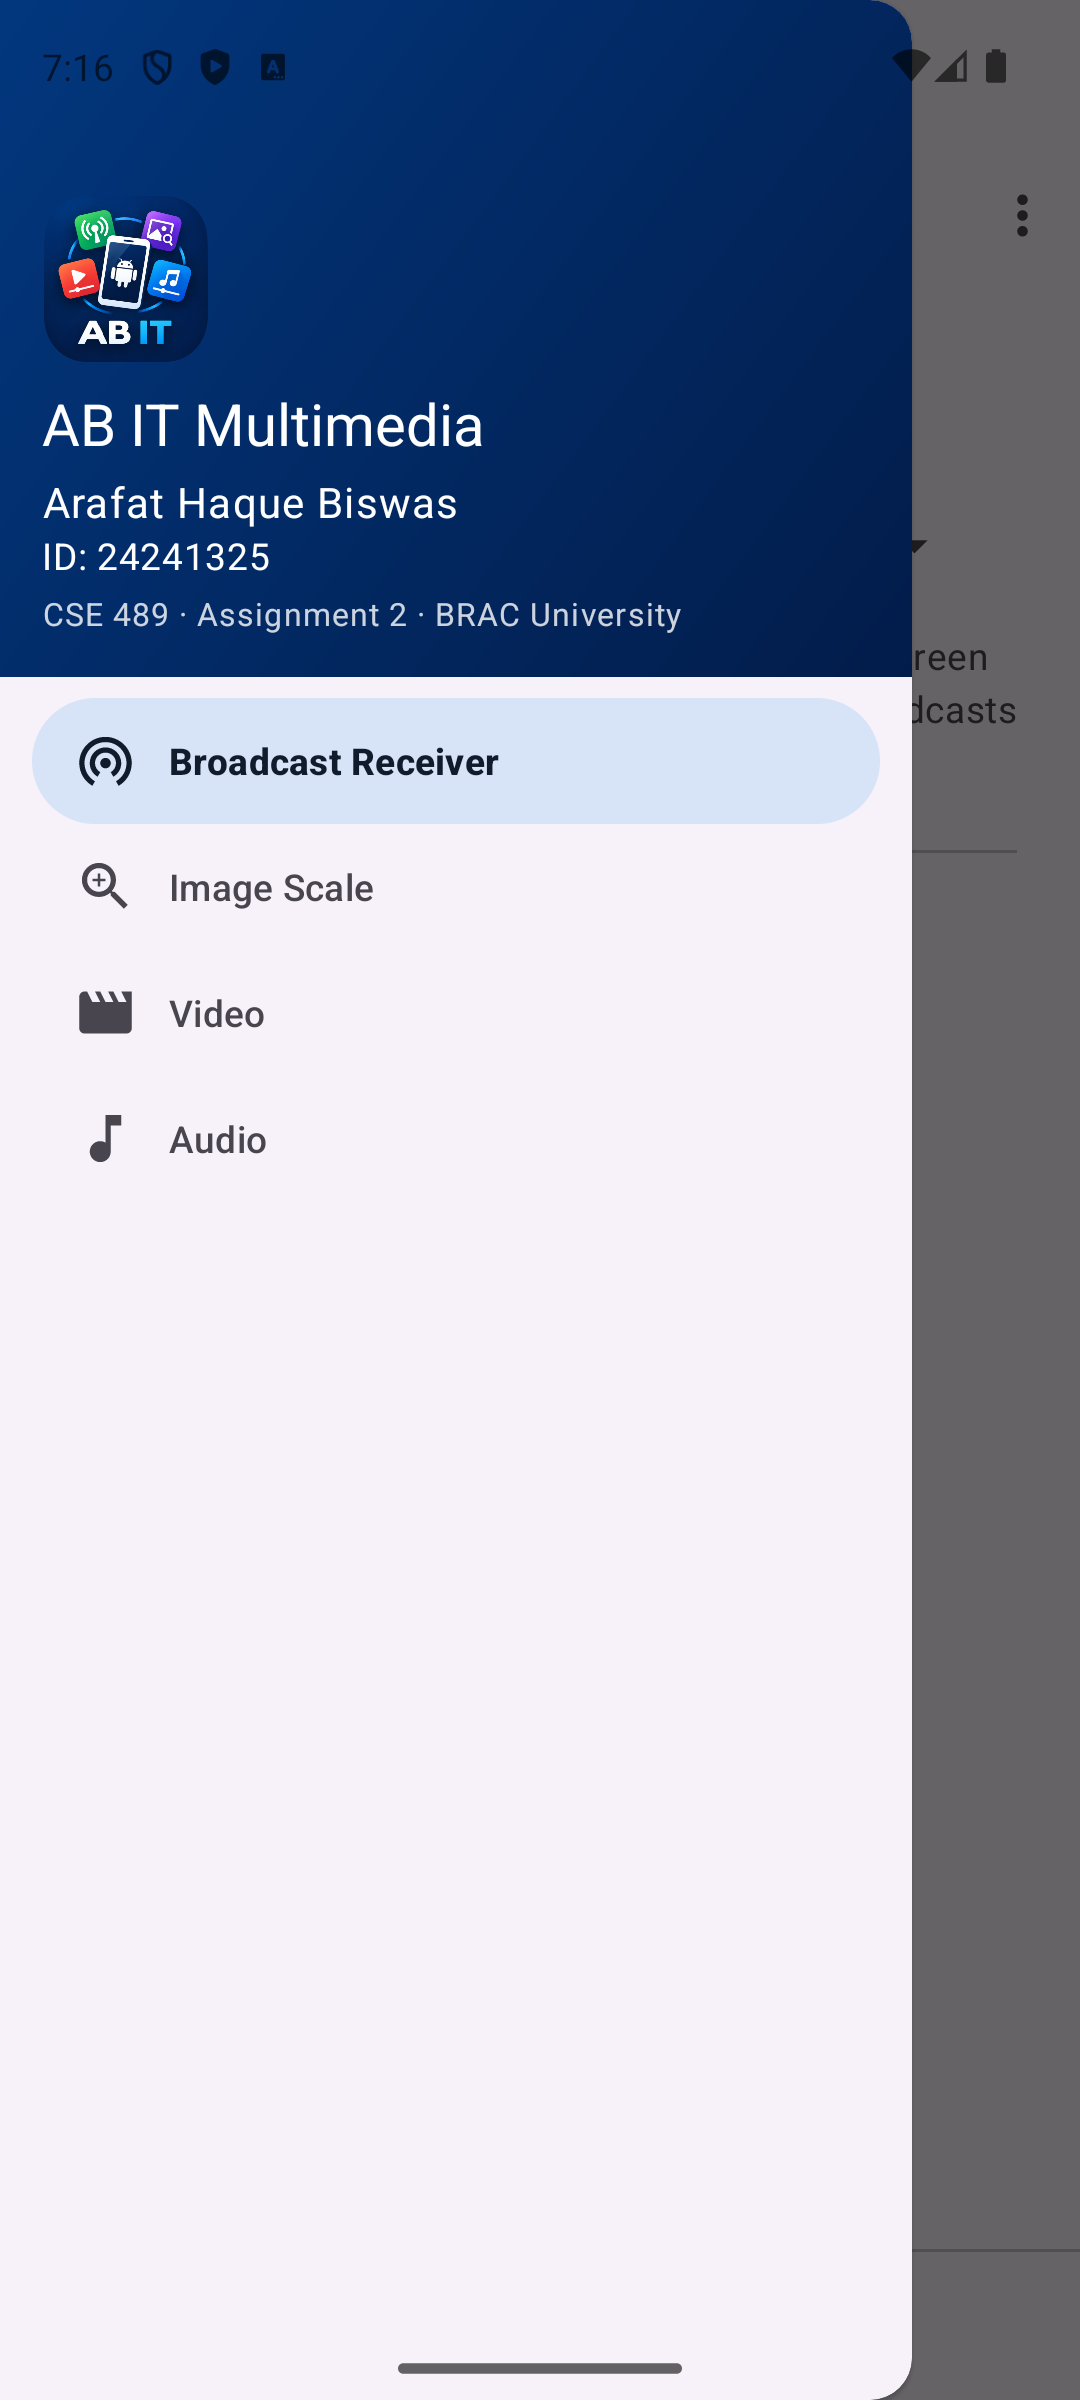
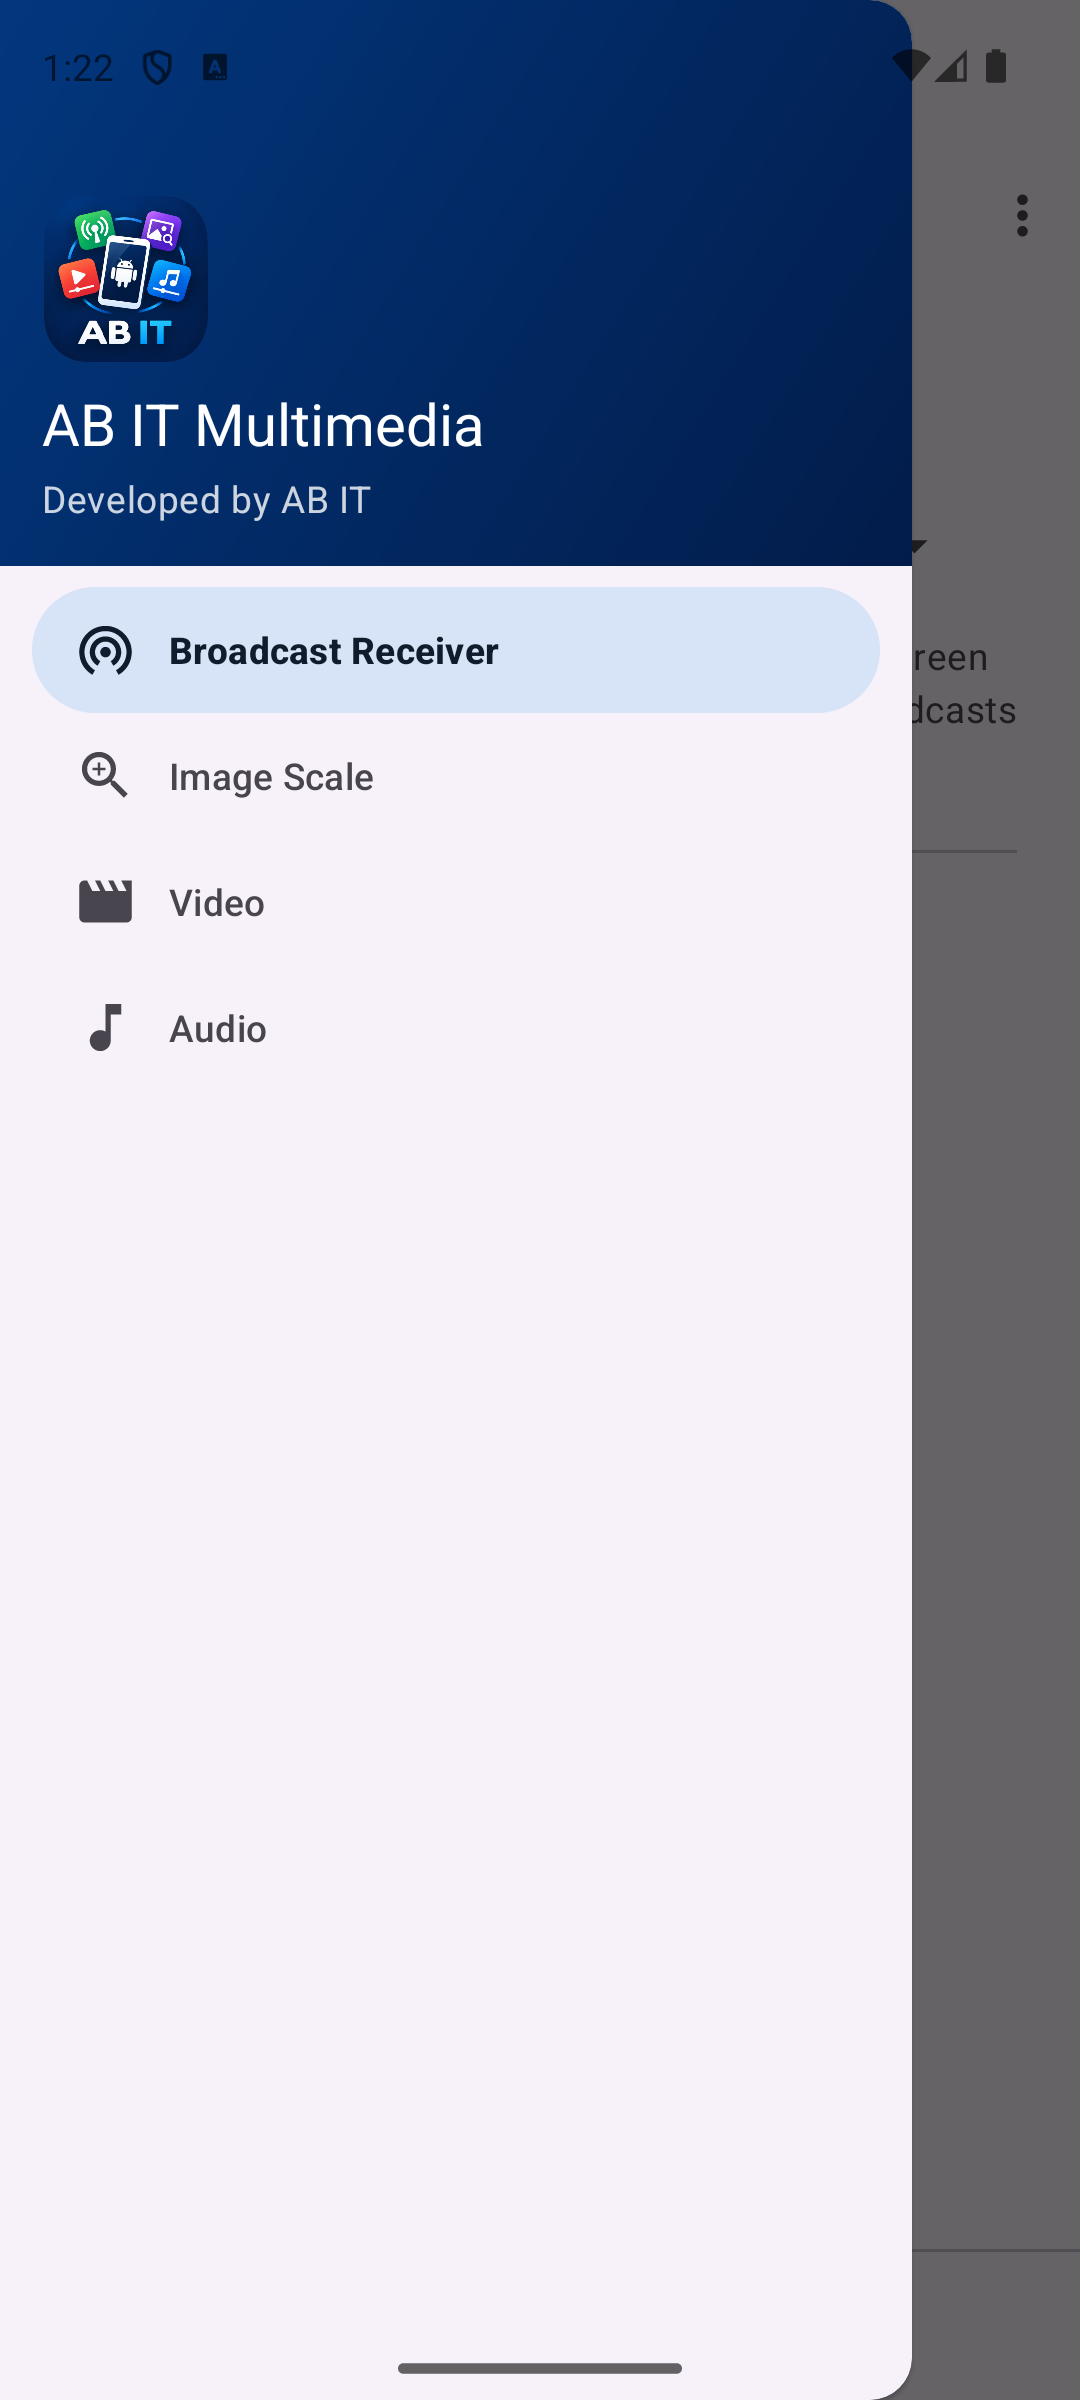
add

diff --git a/docs/play-store/PLAY_CONSOLE_CHECKLIST.md b/docs/play-store/PLAY_CONSOLE_CHECKLIST.md
@@ -1,0 +1,116 @@
+# Google Play Console checklist — AB IT Multimedia
+
+What is already prepared in this project, and what you still have to do yourself in Play Console.
+Requirements were checked against the official Google Play / Android Developers pages on
+26 October 2026 (sources at the end). **Nothing has been uploaded or published.**
+
+## 1. Technical requirements (verified in this project)
+
+| Requirement | Official rule | This app | Status |
+|---|---|---|---|
+| Target API level | New apps and updates must target Android 16 (API 36) or higher from 31 Aug 2026 | `targetSdk 37` | ✅ |
+| Minimum Android version | Your choice | `minSdk 24` (Android 7.0) | ✅ |
+| Publishing format | Android App Bundle (AAB) with Play App Signing | `app/build/outputs/bundle/release/app-release.aab`, signed with the upload key | ✅ |
+| 16 KB memory page size | Required for apps targeting API 35+ (updates blocked from 1 Feb 2027); Kotlin/Java-only apps already comply | no native `.so` libraries in the AAB | ✅ |
+| Permissions | Only what is needed | `INTERNET` only (+ AndroidX's own signature-level permission) | ✅ |
+| Exported components | Must be deliberate | only the launcher Activity, plus AndroidX's `ProfileInstallReceiver` (guarded by the system-only `DUMP` permission) | ✅ |
+| Runtime receivers (Android 14+) | Must declare an export flag | both use `ContextCompat.RECEIVER_NOT_EXPORTED` | ✅ |
+| Release build | Not debuggable, shrunk | R8 enabled, not debuggable, cleartext traffic not allowed | ✅ |
+
+## 2. Before creating the app in Play Console
+
+1. **Developer account.** If you use a *personal* account created after 13 November 2023, you must
+   run a **closed test with at least 12 testers who stay opted in for 14 continuous days** before
+   you can apply for production access (Dashboard → *Apply for production*). Plan for this:
+   collect 12+ Google accounts (classmates, family) willing to install the app and stay opted in.
+   Organisation accounts are not subject to this rule.
+2. **Developer verification.** Google has registered almost all Play apps automatically. Check the
+   Play Console home page for any app registration task; the first enforcement date was
+   30 September 2026 (Brazil, Indonesia, Singapore, Thailand), with a global rollout in 2027.
+3. **Privacy policy URL.** Play requires a public, non-PDF, non-editable URL. Host
+   `docs/privacy-policy.md` — for example with GitHub Pages (repository → Settings → Pages →
+   deploy from the `docs` folder) or Google Sites — and note the URL. The same policy is already
+   shown inside the app (About screen), which Play also requires.
+
+## 3. Create the app and upload
+
+1. *Create app* → name **AB IT Multimedia**, default language, **App** (not game), **Free**.
+2. Enroll in **Play App Signing** (default for new apps). Google keeps the final app signing key;
+   you sign uploads with your **upload key** (see README → *Release signing*).
+3. Upload `app-release.aab` to the **Internal testing** track first, install it from Play on a phone
+   and check every screen.
+4. Then create the **Closed testing** track, add your 12+ testers, and keep it running for 14 days.
+
+## 4. App content declarations (Policy → App content)
+
+Answer from the facts below. These are recommendations based on the code, not legal advice — you
+are responsible for the final answers.
+
+| Declaration | Recommended answer | Evidence |
+|---|---|---|
+| Privacy policy | your hosted URL from step 2.3 | `docs/privacy-policy.md`, About screen |
+| Ads | **No ads** | no ad SDKs in `gradle/libs.versions.toml` |
+| App access | **All functionality is available without special access** | no login or accounts; Image Scale needs internet |
+| Content rating | Fill in the IARC questionnaire truthfully (no violence, sexual content, gambling, user interaction or purchases). The rating is assigned by IARC. | — |
+| Target audience | **13 and over** (or 18+). Do *not* pick under-13 age groups unless you want the Families policy to apply. | app is a technical demo, not designed for children |
+| News app / Government app / Financial features / Health | **No** / **No** / **None** / **None** | — |
+| Data safety | see below | — |
+
+### Data safety (what the code actually does)
+
+- The app has **no** accounts, analytics, crash reporting, advertising or tracking SDKs.
+  Dependencies: AndroidX, Material, Navigation, Lifecycle, Coil + OkHttp (image loading only).
+- User-entered text (the custom broadcast message) and the battery level **never leave the device**.
+- The **only** network request is an HTTPS GET for one photo from `picsum.photos`
+  (`image/ImageScaleFragment.kt`). It contains no identifiers or user data; like any web request it
+  exposes the device's IP address to Lorem Picsum's servers. AB IT never receives it.
+
+**Recommended answer:** “Does your app collect or share any of the required user data types?” →
+**No**. Google defines “collected” as data transmitted off the device by your app; the app transmits
+no user data of its own, and the IP address is only seen by the image server as part of the
+download. If you prefer to be maximally cautious, you can review Google's guidance on IP addresses
+in the Data safety help page before answering. Google requires the form (and a privacy policy) even
+when an app collects nothing.
+
+## 5. Store listing
+
+Use `docs/play-store/STORE_LISTING.md` and the graphics in `docs/play-store/`.
+
+## 6. Branding and content rights
+
+| Item | Licence / rule | Where it is credited |
+|---|---|---|
+| Sintel trailer (video) | CC BY 3.0, © Blender Foundation | About screen, README, store description |
+| “Carefree” by Kevin MacLeod (audio) | CC BY 4.0 | Audio screen, About, README, store description |
+| Photo 1015 (Picsum/Unsplash) | Unsplash licence (free use) | About, README, store description |
+| Android robot in the AB IT logo | Google brand guidelines: may be used/modified **with the attribution line** below | About screen, README, store description |
+| Libraries | Apache 2.0 (AndroidX, Material, Coil, OkHttp) | — |
+
+Android robot attribution (required wherever the robot appears in a creative):
+“The Android robot is reproduced or modified from work created and shared by Google and used
+according to terms described in the Creative Commons 3.0 Attribution License.”
+
+Google's brand guidelines also say marketing creatives that include Android trademarks should be
+submitted to the Android brand team for review, and that “Android” must not be used in an app's
+name (the name “AB IT Multimedia” is fine). The feature graphic in this folder contains the logo, and
+therefore the robot; it carries the attribution line in small print.
+
+## 7. Risks to be aware of
+
+- **Minimum functionality:** Google may reject apps that offer very limited functionality. This is a
+  learning/demo app, so a rejection on those grounds is possible.
+- **Third-party image service:** Image Scale depends on picsum.photos being online.
+- **Closed testing:** production access is impossible without the 12-tester / 14-day closed test on a
+  new personal account.
+
+## Sources
+
+- Target API level requirements — https://developer.android.com/google/play/requirements/target-sdk
+- Target API level policy (Play Console Help) — https://support.google.com/googleplay/android-developer/answer/11926878
+- Testing requirements for new personal accounts — https://support.google.com/googleplay/android-developer/answer/14151465
+- Data safety form — https://support.google.com/googleplay/android-developer/answer/10787469
+- User Data policy (privacy policy rules) — https://support.google.com/googleplay/android-developer/answer/10144311
+- Store listing assets — https://support.google.com/googleplay/android-developer/answer/9866151
+- 16 KB page sizes — https://developer.android.com/guide/practices/page-sizes
+- Android brand guidelines — https://developer.android.com/distribute/marketing-tools/brand-guidelines
+- Android developer verification — https://android-developers.googleblog.com/2026/03/android-developer-verification-rolling-out-to-all-developers.html

diff --git a/docs/play-store/STORE_LISTING.md b/docs/play-store/STORE_LISTING.md
@@ -1,0 +1,58 @@
+# Google Play store listing — draft
+
+Draft text and assets for the Play Console **Main store listing**. Review and edit before use.
+Limits are from Google Play's store listing help page (checked 26 October 2026).
+
+## Text
+
+| Field | Value | Limit |
+|---|---|---|
+| App name | AB IT Multimedia | 30 characters |
+| Short description | Broadcast receivers, pinch-to-zoom photos, video and audio in one demo app. | 80 characters |
+| Full description | see below | 4000 characters |
+
+### Full description
+
+```
+AB IT Multimedia is a small, ad-free demo of core Android features, built by AB IT.
+
+FOUR FEATURES, ONE DRAWER
+• Broadcast Receiver – choose a broadcast type and follow it across three screens:
+  – Custom: type a message and watch it arrive at a receiver through a private broadcast.
+  – Battery: see the live battery level, charging status and update time from Android's
+    system battery broadcast.
+• Image Scale – a high-resolution photo you can pinch to zoom (up to 5x), drag and double-tap.
+• Video – watch a short film trailer with standard playback controls.
+• Audio – play a music track with play/pause, stop and a seek bar.
+
+PRIVATE BY DESIGN
+• No accounts, ads, analytics or tracking.
+• The only permission is internet access, used to download the Image Scale photo.
+• Video and music are built into the app and work offline.
+
+CREDITS
+• Video: "Sintel" trailer © Blender Foundation | durian.blender.org (CC BY 3.0)
+• Music: "Carefree" by Kevin MacLeod (incompetech.com), licensed under Creative Commons:
+  By Attribution 4.0 License
+• Photo: Alexey Topolyanskiy on Unsplash, served by Lorem Picsum
+• The Android robot is reproduced or modified from work created and shared by Google and used
+  according to terms described in the Creative Commons 3.0 Attribution License.
+```
+
+## Graphics in this folder
+
+| Asset | File | Requirement | Status |
+|---|---|---|---|
+| App icon | `icon-512.png` | 512 × 512, 32-bit PNG with alpha, ≤ 1024 KB | generated from the supplied logo |
+| Feature graphic | `feature-graphic.png` | 1024 × 500, JPEG or 24-bit PNG without alpha | generated from the supplied logo |
+| Phone screenshots | `screenshots/*.png` | 2–8 images, 24-bit PNG/JPEG without alpha, sides 320–3840 px, long side ≤ 2 × short side | 8 images, 1101 × 2202 (2:1) |
+
+The phone screenshots are the emulator screenshots with the status bar and gesture bar trimmed,
+because the raw 1080 × 2400 images are longer than 2:1 and would be rejected.
+
+## Suggested settings
+
+- **Category:** Education or Tools — your choice; both fit a feature-demo app.
+- **Contact email:** required by Play Console. Use an address you check; it is also the
+  privacy contact named in the privacy policy.
+- **Website / phone:** optional — leave empty rather than inventing one.

diff --git a/docs/privacy-policy.md b/docs/privacy-policy.md
@@ -1,0 +1,61 @@
+# Privacy Policy — AB IT Multimedia
+
+*Last updated: 26 October 2026*
+
+This privacy policy describes how the Android app **AB IT Multimedia**, developed by **AB IT**,
+handles information. The same policy is shown inside the app on the About screen.
+
+## Summary
+
+AB IT Multimedia does **not** collect, store or share any personal data. It has no user accounts,
+no advertising, no analytics, no crash reporting and no tracking of any kind.
+
+## Information used only on your device
+
+- **Message for the custom broadcast.** The text you type on the Broadcast Receiver screen is passed
+  only between the app's own screens, using an Android broadcast that is restricted to the app
+  itself. It never leaves your device and is not saved once you leave that screen.
+- **Battery level and charging status.** While the battery screen is open, the app reads Android's
+  system battery broadcast only to display these values. They are not stored or sent anywhere.
+- **Video and music.** The sample video and music are stored inside the app.
+
+## Internet use
+
+The app connects to the internet only when you open **Image Scale**, to download one photo from
+[Lorem Picsum](https://picsum.photos) (picsum.photos), a free third-party image service, over an
+encrypted HTTPS connection. As with any website, Lorem Picsum's servers receive the basic technical
+information that every internet request contains, such as your device's IP address. The app sends
+no other information, and AB IT does not receive or store any of it.
+
+## Permissions
+
+- **Internet access** (`android.permission.INTERNET`) — to download the Image Scale photo.
+
+The app requests no other permissions. (It also declares an internal permission that only the app
+itself can hold; Android uses it to keep the custom broadcast private.)
+
+## Storage, retention and deletion
+
+A copy of the downloaded photo is kept in the app's private cache so it does not need to be
+downloaded again. You can delete it at any time by clearing the app's storage in Android settings or
+by uninstalling the app. AB IT keeps no data on any server, so there is nothing to request or delete
+from us.
+
+## Security
+
+All network traffic uses HTTPS. The app holds no personal data, the custom broadcast can only be
+received by the app itself, and none of the app's receivers can be reached by other apps.
+
+## Children
+
+The app does not knowingly collect personal information from anyone, including children.
+
+## Changes to this policy
+
+If this policy changes, the new version will be published at this address with a new
+"Last updated" date.
+
+## Contact
+
+Questions about this privacy policy can be sent to AB IT using the developer email address shown on
+the app's Google Play store page.
